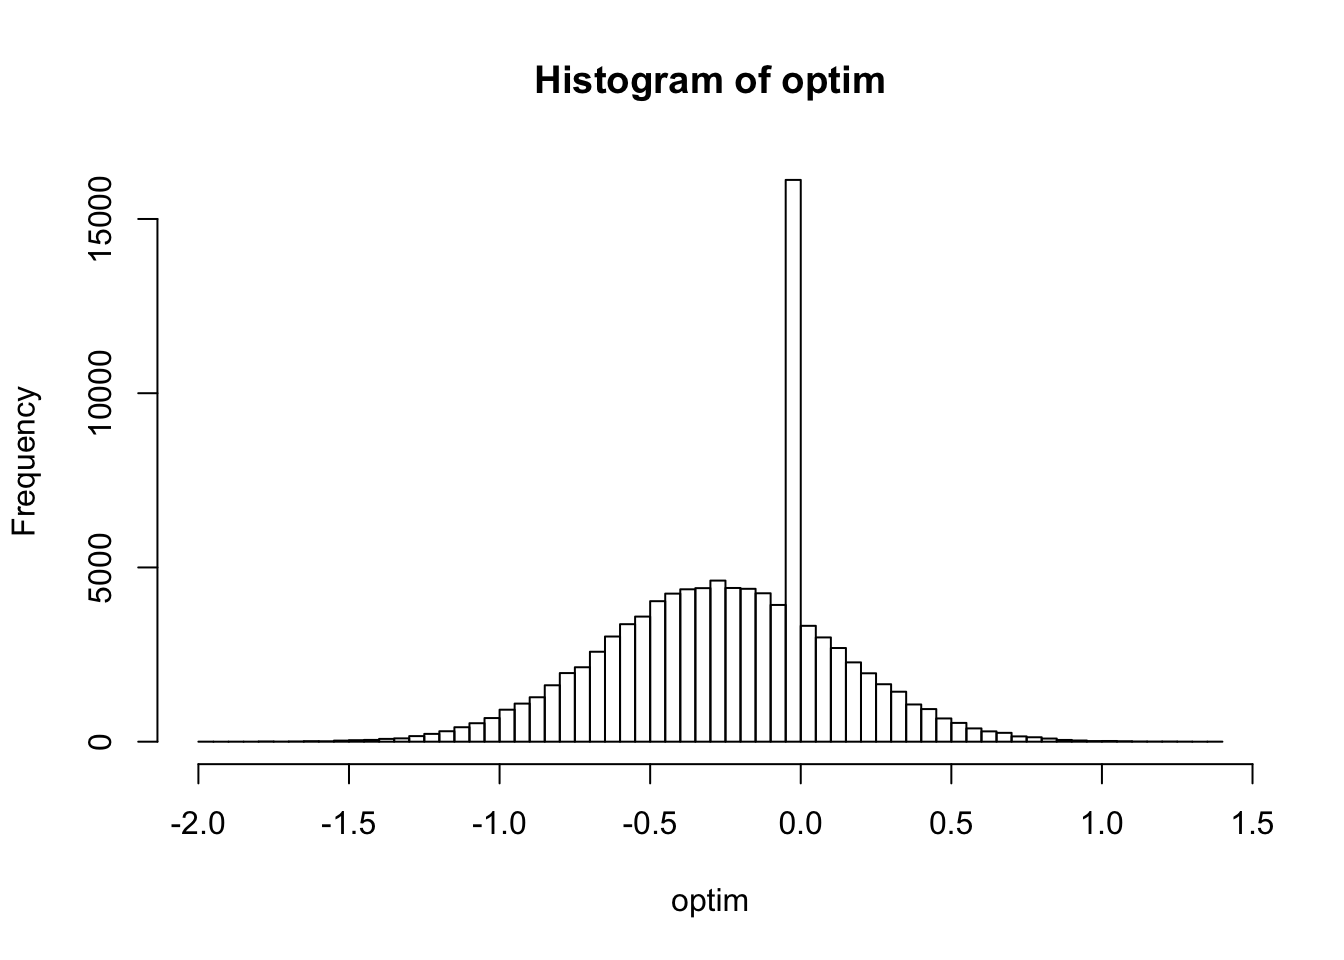
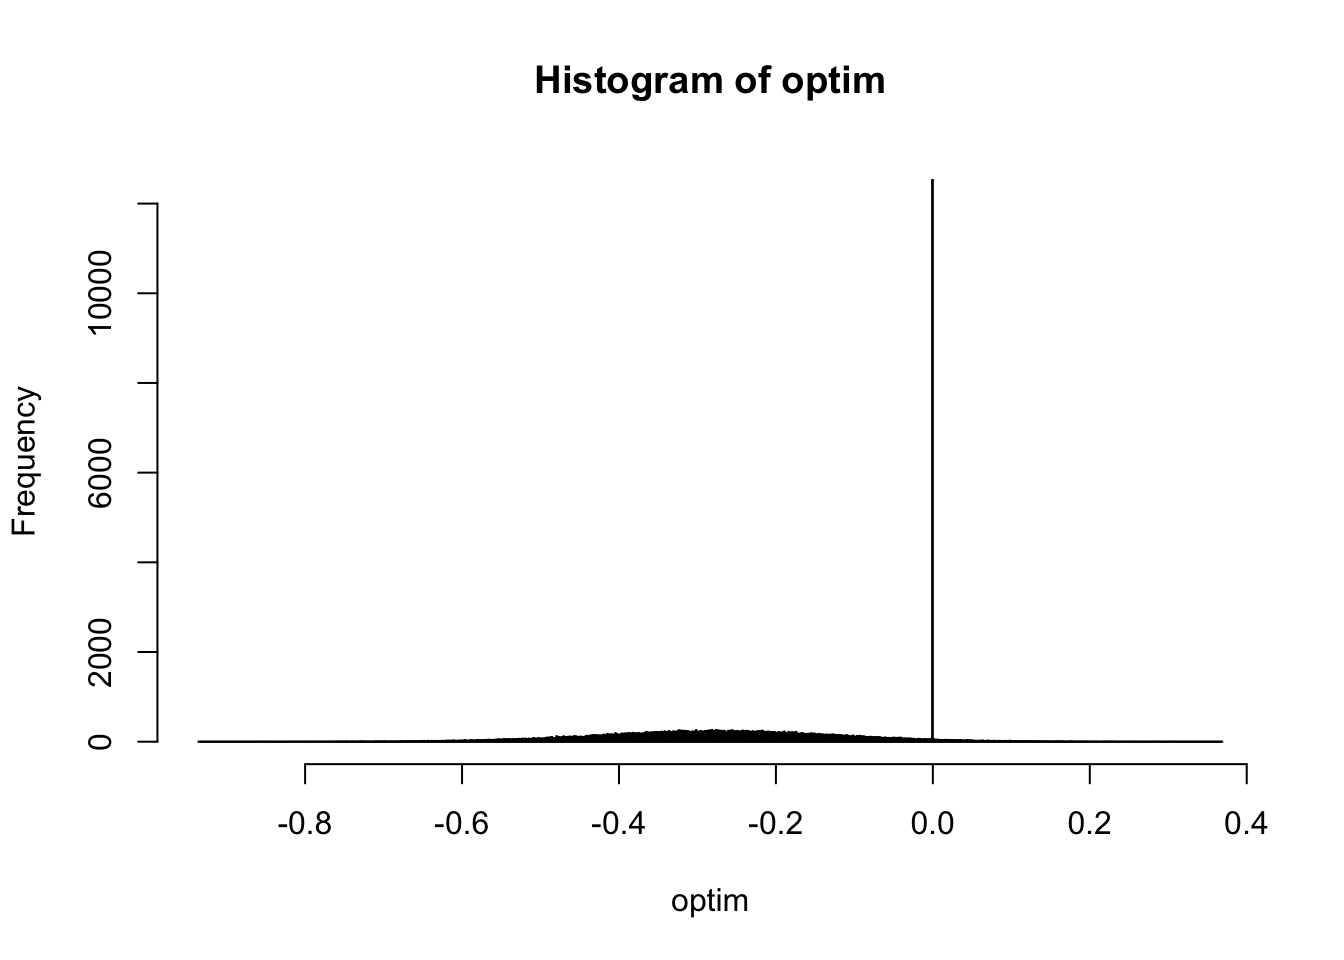
Build site.

diff --git a/docs/first-analysis.html b/docs/first-analysis.html
@@ -439,7 +439,7 @@ div.section {
 <div class="tab-content">
 <div id="summary" class="tab-pane fade in active">
 <p>
-<strong>Last updated:</strong> 2019-06-15
+<strong>Last updated:</strong> 2019-06-17
 </p>
 <p>
 <strong>Checks:</strong> <span class="glyphicon glyphicon-ok text-success" aria-hidden="true"></span> 6 <span class="glyphicon glyphicon-exclamation-sign text-danger" aria-hidden="true"></span> 0
@@ -487,7 +487,7 @@ This reproducible <a href="http://rmarkdown.rstudio.com">R Markdown</a> analysis
 </div>
 <div id="strongSeedstrongcodesetseed20190606code" class="panel-collapse collapse">
 <div class="panel-body">
-<p>The command <code>set.seed(20190606)</code> was run prior to running the code in the R Markdown file. Setting a seed ensures that any results that rely on randomness, e.g. subsampling or permutations, are reproducible.</p>
+<p>The command <code>set.seed(20190606)</code> was run prior to running the code in the R Markdown file. Setting a seed ensures that any results that rely on randomness, e.g. subsampling or permutations, are reproducible.</p>
 </div>
 </div>
 </div>
@@ -518,10 +518,10 @@ This reproducible <a href="http://rmarkdown.rstudio.com">R Markdown</a> analysis
 <div class="panel panel-default">
 <div class="panel-heading">
 <p class="panel-title">
-<a data-toggle="collapse" data-parent="#workflowr-checks" href="#strongRepositoryversionstrongahrefhttpsgithubcomsurbutnejmtree675b8e0dea8dd548924a84fd2fb7fede397796e1targetblank675b8e0a"> <span class="glyphicon glyphicon-ok text-success" aria-hidden="true"></span> <strong>Repository version:</strong> <a href="https://github.com/surbut/nejm/tree/675b8e0dea8dd548924a84fd2fb7fede397796e1" target="_blank">675b8e0</a> </a>
+<a data-toggle="collapse" data-parent="#workflowr-checks" href="#strongRepositoryversionstrongahrefhttpsgithubcomsurbutnejmtree4a15532ead64d351ef18579c6220336f055f8822targetblank4a15532a"> <span class="glyphicon glyphicon-ok text-success" aria-hidden="true"></span> <strong>Repository version:</strong> <a href="https://github.com/surbut/nejm/tree/4a15532ead64d351ef18579c6220336f055f8822" target="_blank">4a15532</a> </a>
 </p>
 </div>
[2 lines of base64/hex data omitted]
 <div class="panel-body">
 <p>
 Great! You are using Git for version control. Tracking code development and connecting the code version to the results is critical for reproducibility. The version displayed above was the version of the Git repository at the time these results were generated. <br><br> Note that you need to be careful to ensure that all relevant files for the analysis have been committed to Git prior to generating the results (you can use <code>wflow_publish</code> or <code>wflow_git_commit</code>). workflowr only checks the R Markdown file, but you know if there are other scripts or data files that it depends on. Below is the status of the Git repository when the results were generated:
@@ -529,8 +529,6 @@ Great! You are using Git for version control. Tracking code development and conn
 <pre><code>
 Ignored files:
     Ignored:    .DS_Store
-    Ignored:    .RData
-    Ignored:    .Rhistory
 
 </code></pre>
 <p>
@@ -569,6 +567,40 @@ Message
 </tr>
 </thead>
 <tbody>
+<tr>
+<td>
+Rmd
+</td>
+<td>
+<a href="https://github.com/surbut/nejm/blob/4a15532ead64d351ef18579c6220336f055f8822/analysis/first-analysis.Rmd" target="_blank">4a15532</a>
+</td>
+<td>
+surbut
+</td>
+<td>
+2019-06-17
+</td>
+<td>
+workflowr::wflow_publish(“analysis/first-analysis.Rmd”)
+</td>
+</tr>
+<tr>
+<td>
+html
+</td>
+<td>
+<a href="https://rawcdn.githack.com/surbut/nejm/0e6a0ad129c3c5efa037e0778a229dba50229c92/docs/first-analysis.html" target="_blank">0e6a0ad</a>
+</td>
+<td>
+Sarah Urbut
+</td>
+<td>
+2019-06-15
+</td>
+<td>
+Build site.
+</td>
+</tr>
 <tr>
 <td>
 Rmd
@@ -985,6 +1017,17 @@ Date
 <tbody>
 <tr>
 <td>
+<a href="https://github.com/surbut/nejm/blob/0e6a0ad129c3c5efa037e0778a229dba50229c92/docs/figure/first-analysis.Rmd/sampleplot-1.png" target="_blank">0e6a0ad</a>
+</td>
+<td>
+Sarah Urbut
+</td>
+<td>
+2019-06-15
+</td>
+</tr>
+<tr>
+<td>
 <a href="https://github.com/surbut/nejm/blob/427ef76143deed1dfa91969109fa31eee5e81f93/docs/figure/first-analysis.Rmd/sampleplot-1.png" target="_blank">427ef76</a>
 </td>
 <td>
@@ -1023,11 +1066,11 @@ for(i in 1:nsim){
   a=rbinom(n=1,1,prob=optimistic)
   pm=post_mean(priormean=0,priorsd=a*1,datamean=dm,datase=dataSE)
   ps=sqrt(post_var(priorsd = a*1,datase = dataSE))
-  b=rnorm(1,mean=pm,sd=sqrt(ps))
+  b=rnorm(1,mean=pm,sd=ps)
  optim[i]=b
 }
 
-hist(optim,nclass=100)</code></pre>
+hist(optim,nclass=1000)</code></pre>
 <p><img src="figure/first-analysis.Rmd/unnamed-chunk-2-1.png" width="672" style="display: block; margin: auto;" /></p>
 <p>
 <button type="button" class="btn btn-default btn-xs btn-workflowr btn-workflowr-fig" data-toggle="collapse" data-target="#fig-unnamed-chunk-2-1">
@@ -1053,6 +1096,17 @@ Date
 <tbody>
 <tr>
 <td>
+<a href="https://github.com/surbut/nejm/blob/0e6a0ad129c3c5efa037e0778a229dba50229c92/docs/figure/first-analysis.Rmd/unnamed-chunk-2-1.png" target="_blank">0e6a0ad</a>
+</td>
+<td>
+Sarah Urbut
+</td>
+<td>
+2019-06-15
+</td>
+</tr>
+<tr>
+<td>
 <a href="https://github.com/surbut/nejm/blob/427ef76143deed1dfa91969109fa31eee5e81f93/docs/figure/first-analysis.Rmd/unnamed-chunk-2-1.png" target="_blank">427ef76</a>
 </td>
 <td>
@@ -1071,11 +1125,11 @@ for(i in 1:nsim){
   a=rbinom(n=1,1,prob=moderate)
   pm=post_mean(priormean=0,priorsd=a*1,datamean=dm,datase=dataSE)
   ps=sqrt(post_var(priorsd = a*1,datase = dataSE))
-  b=rnorm(1,mean=pm,sd=sqrt(ps))
+  b=rnorm(1,mean=pm,sd=ps)
   moder[i]=b
 }
 
-hist(moder,nclass=100)</code></pre>
+hist(moder,nclass=1000)</code></pre>
 <p><img src="figure/first-analysis.Rmd/unnamed-chunk-2-2.png" width="672" style="display: block; margin: auto;" /></p>
 <p>
 <button type="button" class="btn btn-default btn-xs btn-workflowr btn-workflowr-fig" data-toggle="collapse" data-target="#fig-unnamed-chunk-2-2">
@@ -1101,6 +1155,17 @@ Date
 <tbody>
 <tr>
 <td>
+<a href="https://github.com/surbut/nejm/blob/0e6a0ad129c3c5efa037e0778a229dba50229c92/docs/figure/first-analysis.Rmd/unnamed-chunk-2-2.png" target="_blank">0e6a0ad</a>
+</td>
+<td>
+Sarah Urbut
+</td>
+<td>
+2019-06-15
+</td>
+</tr>
+<tr>
+<td>
 <a href="https://github.com/surbut/nejm/blob/427ef76143deed1dfa91969109fa31eee5e81f93/docs/figure/first-analysis.Rmd/unnamed-chunk-2-2.png" target="_blank">427ef76</a>
 </td>
 <td>
@@ -1119,11 +1184,11 @@ for(i in 1:nsim){
   a=rbinom(n=1,1,prob=skeptical)
   pm=post_mean(priormean=0,priorsd=a*1,datamean=dm,datase=dataSE)
   ps=sqrt(post_var(priorsd = a*1,datase = dataSE))
-  b=rnorm(1,mean=pm,sd=sqrt(ps))
+  b=rnorm(1,mean=pm,sd=ps)
  skept[i]=b
 }
 
-hist(skept,nclass=100)</code></pre>
+hist(skept,nclass=1000)</code></pre>
 <p><img src="figure/first-analysis.Rmd/unnamed-chunk-2-3.png" width="672" style="display: block; margin: auto;" /></p>
 <p>
 <button type="button" class="btn btn-default btn-xs btn-workflowr btn-workflowr-fig" data-toggle="collapse" data-target="#fig-unnamed-chunk-2-3">
@@ -1149,6 +1214,17 @@ Date
 <tbody>
 <tr>
 <td>
+<a href="https://github.com/surbut/nejm/blob/0e6a0ad129c3c5efa037e0778a229dba50229c92/docs/figure/first-analysis.Rmd/unnamed-chunk-2-3.png" target="_blank">0e6a0ad</a>
+</td>
+<td>
+Sarah Urbut
+</td>
+<td>
+2019-06-15
+</td>
+</tr>
+<tr>
+<td>
 <a href="https://github.com/surbut/nejm/blob/427ef76143deed1dfa91969109fa31eee5e81f93/docs/figure/first-analysis.Rmd/unnamed-chunk-2-3.png" target="_blank">427ef76</a>
 </td>
 <td>
@@ -1162,6 +1238,16 @@ Sarah Urbut
 </table>
 </div>
 </div>
+<p>To ascertain the credible intervals of each set, we simply examine the appropriate quanitles:</p>
+<pre class="r"><code>quantile(optim,prob=c(0,0.025,0.975))</code></pre>
+<pre><code>         0%        2.5%       97.5% 
+-0.93513385 -0.56074360  0.01305478 </code></pre>
+<pre class="r"><code>quantile(moder,prob=c(0,0.025,0.975))</code></pre>
+<pre><code>        0%       2.5%      97.5% 
+-0.8718678 -0.5112906  0.0000000 </code></pre>
+<pre class="r"><code>quantile(skept,prob=c(0,0.025,0.975))</code></pre>
+<pre><code>        0%       2.5%      97.5% 
+-0.8840174 -0.3491166  0.0000000 </code></pre>
 <br>
 <p>
 <button type="button" class="btn btn-default btn-workflowr btn-workflowr-sessioninfo" data-toggle="collapse" data-target="#workflowr-sessioninfo" style="display: block;">
@@ -1170,9 +1256,9 @@ Sarah Urbut
 </p>
 <div id="workflowr-sessioninfo" class="collapse">
 <pre class="r"><code>sessionInfo()</code></pre>
-<pre><code>R version 3.5.2 (2018-12-20)
+<pre><code>R version 3.5.1 (2018-07-02)
 Platform: x86_64-apple-darwin15.6.0 (64-bit)
-Running under: macOS Mojave 10.14.5
+Running under: macOS  10.14.2
 
 Matrix products: default
 BLAS: /Library/Frameworks/R.framework/Versions/3.5/Resources/lib/libRblas.0.dylib
@@ -1187,9 +1273,9 @@ attached base packages:
 loaded via a namespace (and not attached):
  [1] workflowr_1.3.0 Rcpp_1.0.1      digest_0.6.18   rprojroot_1.3-2
  [5] backports_1.1.4 git2r_0.25.2    magrittr_1.5    evaluate_0.13  
- [9] stringi_1.4.3   fs_1.3.0        whisker_0.3-2   rmarkdown_1.12 
-[13] tools_3.5.2     stringr_1.4.0   glue_1.3.1      xfun_0.6       
-[17] yaml_2.2.0      compiler_3.5.2  htmltools_0.3.6 knitr_1.22     </code></pre>
+ [9] stringi_1.4.3   fs_1.2.7        whisker_0.3-2   rmarkdown_1.12 
+[13] tools_3.5.1     stringr_1.4.0   glue_1.3.1      xfun_0.6       
+[17] yaml_2.2.0      compiler_3.5.1  htmltools_0.3.6 knitr_1.22     </code></pre>
 </div>
 </div>
 
